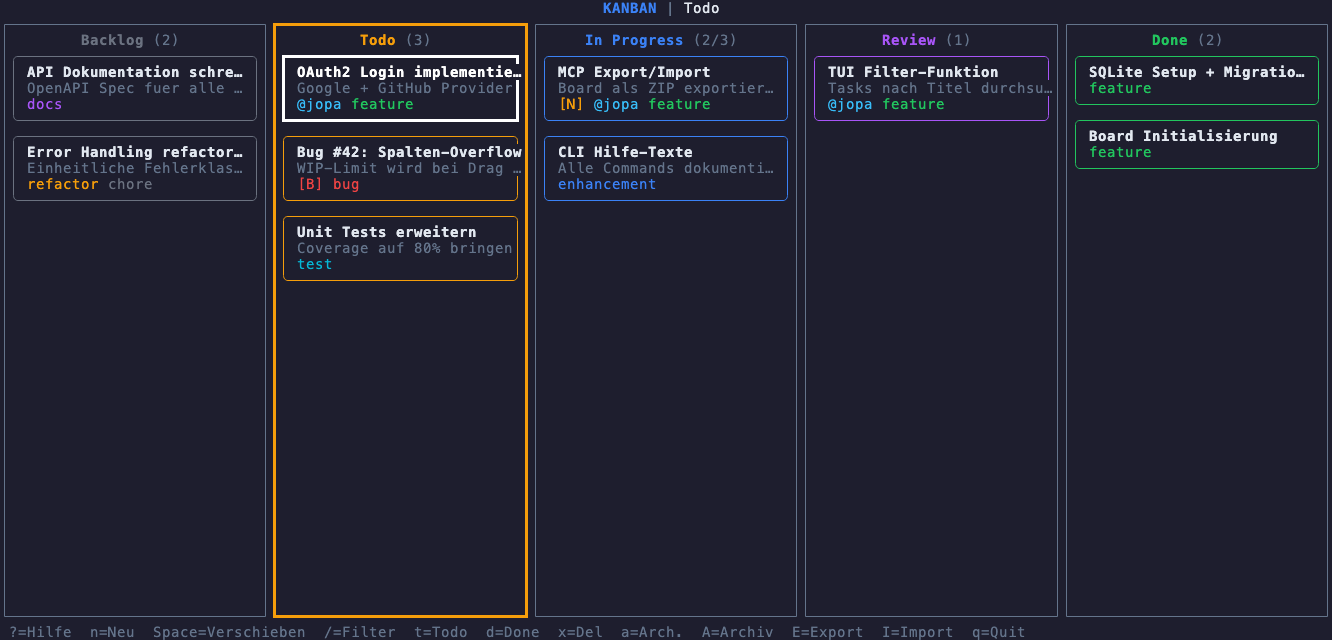
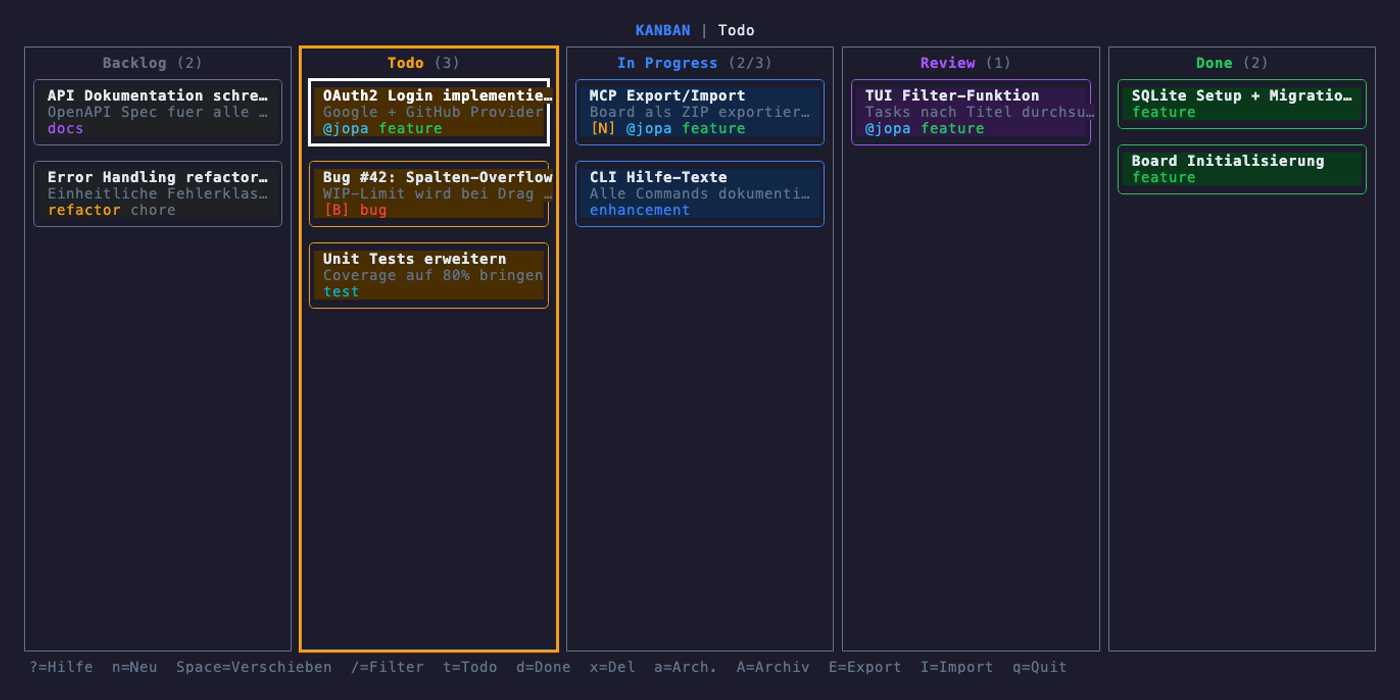
docs: update TUI screenshot and add detail view screenshot
New board overview screenshot with background tinting and a second
screenshot showing the task detail view with title, description,
tags and notes. Seed demo data enriched for better detail view.

Changed region(s): [[0.0, 0.0, 1.0, 1.0], [0.9542, 0.9062, 0.985, 0.9375]]

diff --git a/scripts/seed-demo.ts b/scripts/seed-demo.ts
@@ -77,12 +77,12 @@ taskService.addTask({
 // --- In Progress Tasks ---
 const exportTask = taskService.addTask({
   title: "MCP Export/Import",
-  description: "Board als ZIP exportieren",
+  description: "Board als ZIP exportieren und aus ZIP wiederherstellen",
   columnId: "in-progress",
   labels: ["feature"],
   assignedTo: "jopa",
   createdBy: "claude",
-  notes: "## Status\n- [x] Export Service\n- [x] Import Service\n- [ ] MCP Tools registrieren\n- [ ] CLI Commands",
+  notes: "## Status\n- [x] Export Service\n- [x] Import Service\n- [ ] MCP Tools registrieren\n- [ ] CLI Commands\n\n## Architektur\nExport erzeugt ein ZIP mit board.db + notes/.\nImport erkennt ob bereits ein Board existiert\nund fragt ggf. nach Ueberschreiben.\n\n## Offene Fragen\n- Sollen Labels beim Import gemergt werden?\n- Max. ZIP-Groesse begrenzen?",
 });
 
 taskService.addTask({

diff --git a/README.md b/README.md
@@ -8,9 +8,11 @@ Terminal-basiertes Kanban Board mit MCP-Server fuer Claude Code.
 - **Skills** — Automatisierte Review-Tests (Playwright + VHS)
 - **SQLite** — Pro-Projekt Datenbank in `.kanban/`
 
-## Screenshot
+## Screenshots
 
 ![Kanban TUI](docs/tui-screenshot.png)
+
+![Task Detail-Ansicht](docs/tui-detail.png)
 
 ## Setup
 
